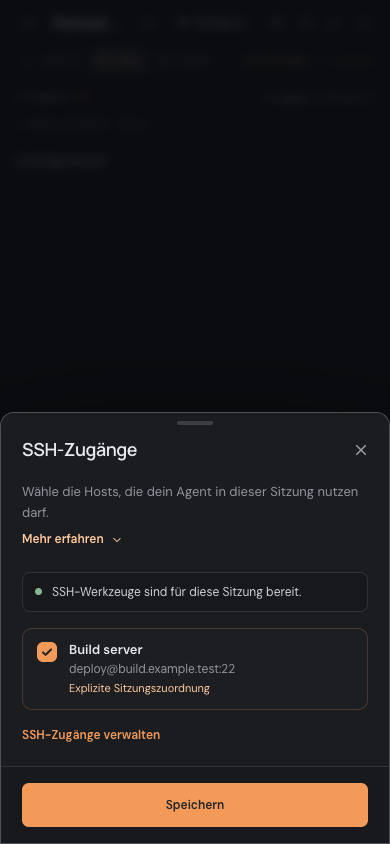
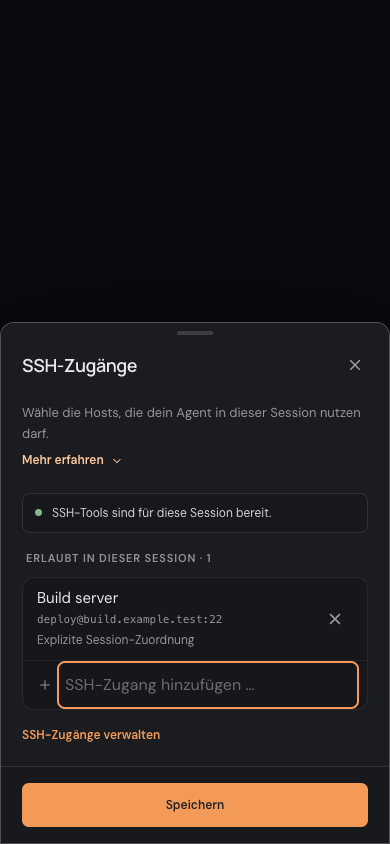
fix: add the SSH access through the stacked grant picker in the reload spec
At 390px the session SSH dialog stacks and has no row checkboxes, so the readiness test adds the access through the add field and checks the allowed list. The phone screenshot of the dialog is regenerated.

diff --git a/tests/browser/session-reload.spec.js b/tests/browser/session-reload.spec.js
@@ -2,6 +2,7 @@ import { test, expect } from "../helpers/browser-test.js";
 import { sessionAction } from "../helpers/session-actions.js";
 import { baseURL } from "../helpers/browser.js";
 import { docScreenshot } from "../helpers/doc-screenshots.js";
+import { addGrant } from "../helpers/grant-picker.js";
 import { recordApiRequests } from "../helpers/visibility.js";
 
 async function fixture(page, language = "en", configure = () => {}) {
@@ -310,9 +311,9 @@ test("SSH readiness updates without losing unsaved choices", async ({
   const requests = recordApiRequests(page);
   await sessionAction(page, "SSH-Zugänge");
   await expect(dialog(page)).toContainText("Warte auf die Verbindung der CLI");
-  await dialog(page)
-    .getByRole("checkbox", { name: /Build server/ })
-    .check();
+  // On a phone the dialog stacks: the allowed list ends in the add field.
+  await addGrant(dialog(page), "SSH-Zugang hinzufügen", "Build server");
+  const allowed = dialog(page).getByRole("group", { name: /^Erlaubt in dieser Session/ });
   // Starting tools follow the sampled job.ssh-tools topic; the page reads them once.
   await liveStub.waitForSubscribe("job.ssh-tools:reload");
   state.tools.state = "ready";
@@ -321,9 +322,7 @@ test("SSH readiness updates without losing unsaved choices", async ({
   expect(
     requests.list().filter((request) => request.path.endsWith("/ssh-accesses")),
   ).toHaveLength(1);
-  await expect(
-    dialog(page).getByRole("checkbox", { name: /Build server/ }),
-  ).toBeChecked();
+  await expect(allowed.getByText("Build server", { exact: true })).toBeVisible();
   await page.screenshot({ path: docScreenshot("docs/screenshots/ssh-tools-mobile.png") });
   expect(state.assignedIds).toEqual([]);
 });
